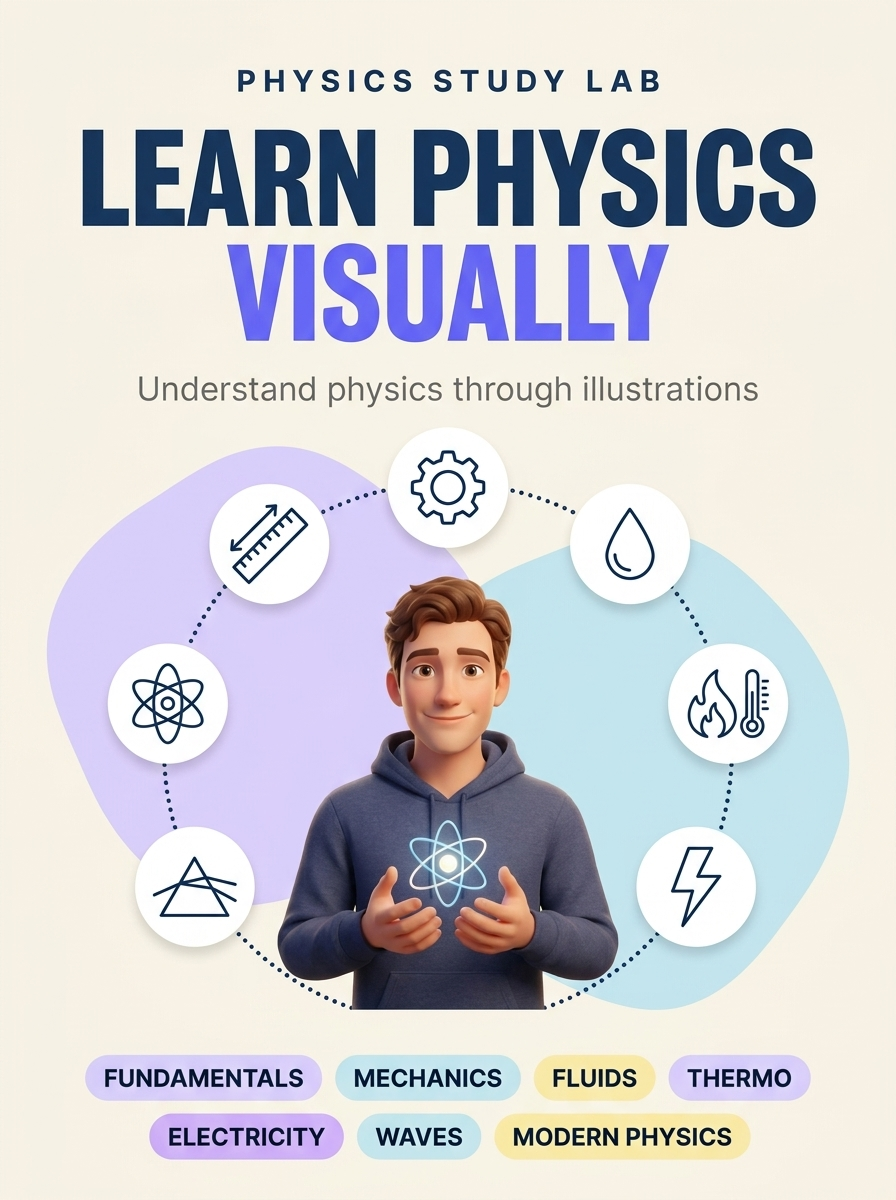
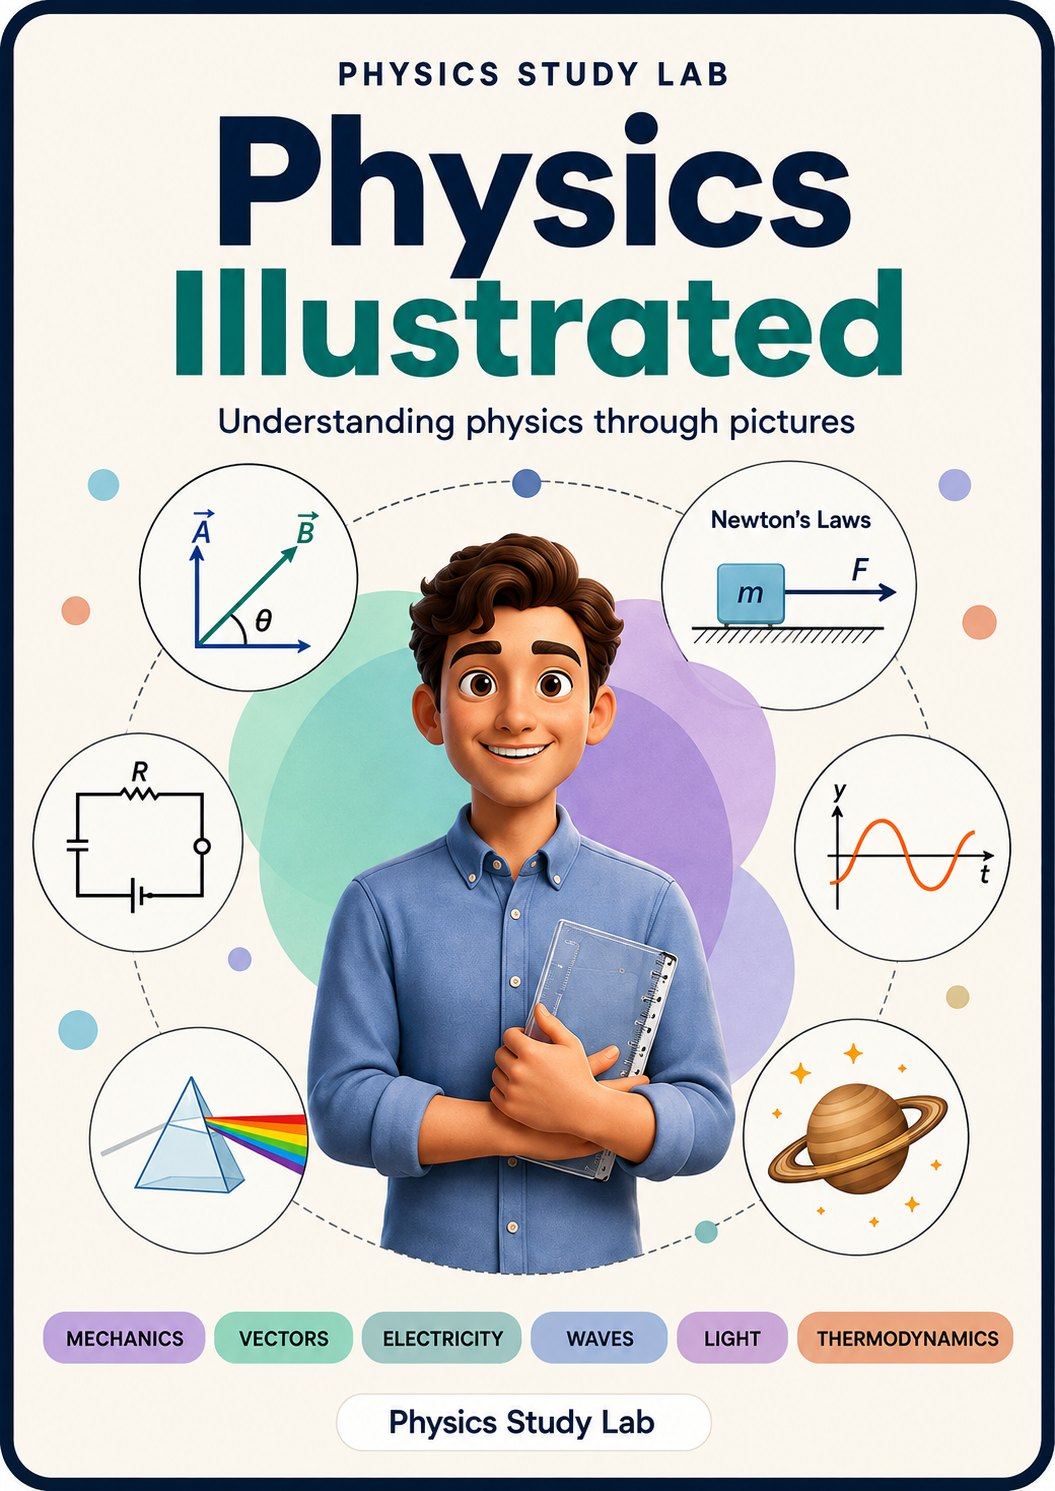
Nuevas portadas, precio £13 y autor Oliver Smith
- Portada del kit (los 3 libros) con fondo recortado en hero y caja de oferta
- Physics Illustrated como portada del libro principal (kit-fan y og:image)
- Bonus 1: The Words of Physics (104 terminos); Bonus 2: Rapid Revision Cards (30 cards)
- Copy y listados alineados a lo que dicen las portadas
- Precio 15 -> 13 GBP en toda la pagina, JSON-LD y FAQ; badge SAVE £44
- Autor: James Whitmore -> Oliver Smith
- Mockups apaisados: hero/db-mockup mas anchos, drop-shadow en vez de caja

diff --git a/index.html b/index.html
@@ -20,7 +20,7 @@
   <meta name="viewport" content="width=device-width, initial-scale=1.0, viewport-fit=cover">
   <meta name="theme-color" content="#173B6C">
   <title>Physics Study Lab: 7 Parts, 38 Illustrated Chapters</title>
-  <meta name="description" content="Physics in 7 illustrated parts: mechanics, electricity, waves, thermodynamics and more. Understand it, don't just memorise it. £15, 30-day guarantee.">
+  <meta name="description" content="Physics in 7 illustrated parts: mechanics, electricity, waves, thermodynamics and more. Understand it, don't just memorise it. £13, 30-day guarantee.">
   <meta name="robots" content="index, follow, max-image-preview:large, max-snippet:-1">
   <meta name="author" content="Physics Study Lab">
   <link rel="canonical" href="https://www.TU-DOMINIO.com/">
@@ -131,7 +131,7 @@
       pointer-events: none;
     }
     .hero-content { position: relative; z-index: 2; max-width: 900px; margin: 0 auto; }
-    .hero-mockup { max-width: 300px; margin: 0 auto 22px; border-radius: 16px; overflow: hidden; box-shadow: 0 20px 50px rgba(0,0,0,0.35); }
+    .hero-mockup { max-width: 440px; margin: 0 auto 22px; filter: drop-shadow(0 20px 42px rgba(0,0,0,0.42)); }
     .hero h1 {
       font-size: clamp(26px, 6.6vw, 32px);
       margin-bottom: 20px; line-height: 1.2;
@@ -172,7 +172,7 @@
     .kit-fan img:not(:first-child) { margin-left: -20px; }
     .kit-fan .kf-p1 { transform: rotate(-14deg); }
     .kit-fan .kf-p2 { transform: rotate(-7deg) translateY(6px); }
-    .kit-fan .kf-cover { width: 104px; aspect-ratio: 896 / 1200; transform: translateY(-10px); z-index: 5; position: relative; box-shadow: 0 14px 30px rgba(15, 27, 51, 0.32); }
+    .kit-fan .kf-cover { width: 104px; aspect-ratio: 1055 / 1491; transform: translateY(-10px); z-index: 5; position: relative; box-shadow: 0 14px 30px rgba(15, 27, 51, 0.32); }
     .kit-fan .kf-p3 { transform: rotate(7deg) translateY(6px); }
     .kit-fan .kf-p4 { transform: rotate(14deg); }
     @media (min-width: 480px) {
@@ -237,7 +237,7 @@
     @media (min-width: 640px) { .decision-box { border-radius: 28px; padding: 44px 36px 36px; margin: 56px auto 0; } }
 
     .db-title { text-align: center; font-size: 24px; font-weight: 800; color: #111827; margin: 18px 0 22px; line-height: 1.25; font-family: inherit; }
-    .db-mockup { display: block; width: 100%; max-width: 260px; margin: 0 auto; filter: drop-shadow(0 12px 32px rgba(23,59,108,0.22)); border-radius: 14px; overflow: hidden; }
+    .db-mockup { display: block; width: 100%; max-width: 380px; margin: 0 auto; filter: drop-shadow(0 12px 32px rgba(23,59,108,0.22)); }
 
     .db-checklist { list-style: none; margin: 0 0 24px; padding: 0; }
     .db-checklist li { display: flex; align-items: center; gap: 12px; padding: 13px 4px; font-size: 15px; font-weight: 500; color: var(--text); border-bottom: 1px solid #f1f5f9; line-height: 1.4; }
@@ -476,7 +476,7 @@
       .container { padding: 0 20px; }
       .hero { padding: 60px 20px 80px; }
       .hero h1 { font-size: 48px; }
-      .hero-mockup { max-width: 380px; margin-bottom: 30px; }
+      .hero-mockup { max-width: 620px; margin-bottom: 30px; }
       .hero .subheadline { font-size: 20px; }
       .section { padding: 80px 20px; }
       .section-snug-top { padding-top: 40px; }
@@ -547,12 +547,12 @@
     "description":"Physics in 7 parts and 38 illustrated chapters: fundamentals, mechanics, fluids, thermodynamics, electricity, waves and optics, and modern physics. Plus 2 bonuses, in English.",
     "image":"https://www.TU-DOMINIO.com/img/cover.jpg",
     "brand":{"@type":"Brand","name":"Physics Study Lab"},
-    "offers":{"@type":"Offer","price":"15","priceCurrency":"GBP","availability":"https://schema.org/InStock",
+    "offers":{"@type":"Offer","price":"13","priceCurrency":"GBP","availability":"https://schema.org/InStock",
               "url":"https://www.TU-DOMINIO.com/#offerta",
               "hasMerchantReturnPolicy":{"@type":"MerchantReturnPolicy","returnPolicyCategory":"https://schema.org/MerchantReturnFiniteReturnWindow","merchantReturnDays":30,"applicableCountry":"GB"}}},
    {"@type":"FAQPage","mainEntity":[
     {"@type":"Question","name":"How will I receive the material?","acceptedAnswer":{"@type":"Answer","text":"As soon as you complete your purchase you'll get an automatic email with the access link. It's high-resolution PDF, ready to download, print or read on any device."}},
-    {"@type":"Question","name":"Is it a one-off payment or a subscription?","acceptedAnswer":{"@type":"Answer","text":"One-off payment of £15. No instalments, no recurring charges. Pay once and the material is yours for good."}},
+    {"@type":"Question","name":"Is it a one-off payment or a subscription?","acceptedAnswer":{"@type":"Answer","text":"One-off payment of £13. No instalments, no recurring charges. Pay once and the material is yours for good."}},
     {"@type":"Question","name":"What language is the material in?","acceptedAnswer":{"@type":"Answer","text":"100% in English, using the same terminology you use in class. It isn't a machine translation."}},
     {"@type":"Question","name":"Does it match my exam board or level?","acceptedAnswer":{"@type":"Answer","text":"Yes. The core physics is the same whichever board you sit — AQA, OCR, Edexcel or Eduqas — so the material covers what comes up at GCSE and A-Level, plus first-year university courses."}},
     {"@type":"Question","name":"Can I print the material?","acceptedAnswer":{"@type":"Answer","text":"Yes. The PDFs are designed in high resolution, ideal for printing, annotating or using as a quick reference before an exam."}}]}]}
@@ -581,7 +581,7 @@
   <section class="hero">
     <div class="hero-content">
       <div class="hero-mockup">
-        <img src="./img/cover.jpg" alt="Physics Study Lab Complete Kit" width="896" height="1200" loading="eager" fetchpriority="high" decoding="async">
+        <img src="./img/kit.webp" alt="Physics Study Lab Complete Kit: Physics Illustrated plus the two bonus books" width="1620" height="971" loading="eager" fetchpriority="high" decoding="async">
       </div>
       <p class="hero-social">
         <span class="stars" aria-hidden="true" style="font-size:19px;letter-spacing:3px;color:var(--cta)">★★★★★</span><br>
@@ -906,7 +906,7 @@
       <div class="kit-fan" role="img" aria-label="The Physics Study Lab cover and four real sample pages, fanned out">
         <img class="kf-p1" src="./img/page-1.jpg" alt="" loading="lazy" decoding="async">
         <img class="kf-p2" src="./img/page-2.jpg" alt="" loading="lazy" decoding="async">
-        <img class="kf-cover" src="./img/cover.jpg" alt="" loading="lazy" decoding="async">
+        <img class="kf-cover" src="./img/cover.webp" alt="" loading="lazy" decoding="async">
         <img class="kf-p3" src="./img/page-3.jpg" alt="" loading="lazy" decoding="async">
         <img class="kf-p4" src="./img/page-4.jpg" alt="" loading="lazy" decoding="async">
       </div>
@@ -937,11 +937,11 @@
 
       <div class="bonus-grid">
         <div class="bonus-item-with-image">
-          <div class="bonus-mockup"><img src="./img/bonus-1.jpg" alt="The 100 Physics Formulas Explained Visually" width="896" height="1200" loading="lazy" decoding="async"></div>
+          <div class="bonus-mockup"><img src="./img/bonus-1.webp" alt="The Words of Physics: 104 terms explained with illustrations" width="1055" height="1491" loading="lazy" decoding="async"></div>
           <div class="bonus-text">
-            <h3>BONUS 1: &ldquo;The 100 Physics Formulas Explained Visually&rdquo;</h3>
+            <h3>BONUS 1: &ldquo;The Words of Physics: 104 Terms Explained with Illustrations&rdquo;</h3>
             <p class="value">Individual value: £14</p>
-            <p>Every formula with its own drawing, its &ldquo;why&rdquo;, and a worked example. Stop memorising loose letters and start understanding where every formula actually comes from.</p>
+            <p>Every term with its own drawing, its &ldquo;why&rdquo;, and a worked example. Stop memorising loose letters and start understanding what every word in physics actually means.</p>
             <div class="bonus-sfoglia">
               <figure><img src="./img/bonus1-sample-1.jpg" alt="Sample page from the formula glossary" width="768" height="1376" loading="lazy" decoding="async"><figcaption>Every formula with its definition and its drawing</figcaption></figure>
               <figure><img src="./img/bonus1-sample-2.jpg" alt="Comparison of commonly confused formulas" width="768" height="1376" loading="lazy" decoding="async"><figcaption>Weight vs. mass: the pair everyone confuses</figcaption></figure>
@@ -951,16 +951,16 @@
         </div>
 
         <div class="bonus-item-with-image">
-          <div class="bonus-mockup"><img src="./img/bonus-2.jpg" alt="Quick Physics Revision: 25 flashcards on the 5 topics that come up most" width="896" height="1200" loading="lazy" decoding="async"></div>
+          <div class="bonus-mockup"><img src="./img/bonus-2.webp" alt="Rapid Revision Cards in Physics: 30 cards on the topics that come up most" width="1055" height="1491" loading="lazy" decoding="async"></div>
           <div class="bonus-text">
-            <h3>BONUS 2: &ldquo;Quick Physics Revision: 25 Flashcards on the 5 Topics That Come Up Most&rdquo;</h3>
+            <h3>BONUS 2: &ldquo;Rapid Revision Cards in Physics: 30 Cards on the Topics That Come Up Most&rdquo;</h3>
             <p class="value">Individual value: £14</p>
             <ul>
               <li>Vectors</li>
-              <li>Newton's Laws</li>
-              <li>Circuits</li>
-              <li>Thermodynamics</li>
+              <li>Mechanics</li>
+              <li>Electricity</li>
               <li>Waves</li>
+              <li>Light</li>
             </ul>
             <p style="margin-top: 16px;">These 5 topics cover the majority of what actually comes up in GCSE and A-Level exams. Cover the answer, test yourself, and know instantly what still needs work.</p>
             <div class="bonus-sfoglia">
@@ -974,25 +974,25 @@
 
       <!-- DECISION BOX -->
       <div class="decision-box" id="offerta">
-        <img src="./img/cover.jpg" alt="Complete Kit: 7 Parts + 2 Bonuses" class="db-mockup" width="896" height="1200" loading="lazy" decoding="async">
+        <img src="./img/kit.webp" alt="Complete Kit: 7 Parts + 2 Bonuses" class="db-mockup" width="1620" height="971" loading="lazy" decoding="async">
 
         <h3 class="db-title">Physics Study Lab Kit</h3>
 
         <ul class="db-checklist">
           <li><span class="db-check"><svg viewBox="0 0 24 24"><polyline points="20 6 9 17 4 12"/></svg></span>38 Illustrated Physics Chapters<span class="db-price-val">£29</span></li>
-          <li><span class="db-check"><svg viewBox="0 0 24 24"><polyline points="20 6 9 17 4 12"/></svg></span>Bonus 1: The 100 Formulas Explained<span class="db-price-val">£14</span></li>
-          <li><span class="db-check"><svg viewBox="0 0 24 24"><polyline points="20 6 9 17 4 12"/></svg></span>Bonus 2: Quick Revision, 25 Flashcards<span class="db-price-val">£14</span></li>
+          <li><span class="db-check"><svg viewBox="0 0 24 24"><polyline points="20 6 9 17 4 12"/></svg></span>Bonus 1: The Words of Physics, 104 Terms<span class="db-price-val">£14</span></li>
+          <li><span class="db-check"><svg viewBox="0 0 24 24"><polyline points="20 6 9 17 4 12"/></svg></span>Bonus 2: Rapid Revision, 30 Cards<span class="db-price-val">£14</span></li>
           <li><span class="db-check"><svg viewBox="0 0 24 24"><polyline points="20 6 9 17 4 12"/></svg></span>High-resolution PDF for printing<span class="db-price-val">Included</span></li>
         </ul>
 
         <div class="db-anchoring">
           <p class="db-old-price">Total value: £57</p>
           <p class="db-new-price-label">Today only:</p>
-          <p class="db-new-price">£15</p>
-          <span class="db-discount-badge">SAVE £42</span>
+          <p class="db-new-price">£13</p>
+          <span class="db-discount-badge">SAVE £44</span>
         </div>
 
-        <a href="#offerta" data-checkout class="db-cta">YES, I WANT THE COMPLETE KIT FOR £15</a>
+        <a href="#offerta" data-checkout class="db-cta">YES, I WANT THE COMPLETE KIT FOR £13</a>
 
         <div class="db-trust">
           <span class="db-trust-item"><span class="db-trust-icon"><svg viewBox="0 0 24 24"><path d="M12 1L3 5v6c0 5.55 3.84 10.74 9 12 5.16-1.26 9-6.45 9-12V5l-9-4z"/></svg></span>Secure checkout</span>
@@ -1043,10 +1043,10 @@
 
       <div class="author-content">
         <div class="author-image">
-          <img src="./img/avatar/avatar-pose-wave.jpg" alt="James Whitmore, founder of Physics Study Lab" width="1024" height="1024" loading="lazy" decoding="async">
+          <img src="./img/avatar/avatar-pose-wave.jpg" alt="Oliver Smith, founder of Physics Study Lab" width="1024" height="1024" loading="lazy" decoding="async">
         </div>
         <div class="author-bio">
-          <h3>James Whitmore</h3>
+          <h3>Oliver Smith</h3>
           <h4>Physicist · Founder of Physics Study Lab</h4>
           <p>Physicist and founder of Physics Study Lab, an educational platform created to help students make sense of complex physics through a simpler, more visual approach.</p>
           <p>With a method built around <strong>visual learning and effective understanding</strong>, I transform complicated concepts, equations and theories into clear diagrams, illustrations and practical explanations — so you can finally understand what once seemed impossible.</p>
@@ -1064,8 +1064,8 @@
 
       <ul class="recap-list">
         <li>38 Illustrated Physics Chapters, in 7 parts: from basic quantities to modern physics, all visual and organised</li>
-        <li>Bonus 1: &ldquo;The 100 Physics Formulas Explained Visually&rdquo; (worth £14)</li>
-        <li>Bonus 2: &ldquo;Quick Physics Revision: 25 Flashcards on the 5 Topics That Come Up Most&rdquo; (worth £14)</li>
+        <li>Bonus 1: &ldquo;The Words of Physics: 104 Terms Explained with Illustrations&rdquo; (worth £14)</li>
+        <li>Bonus 2: &ldquo;Rapid Revision Cards in Physics: 30 Cards on the Topics That Come Up Most&rdquo; (worth £14)</li>
         <li>Instant access: everything arrives by automatic email in under 2 minutes</li>
         <li>30-day no-questions guarantee: try it risk-free</li>
         <li>High-resolution PDF: print it, annotate it, take it anywhere</li>
@@ -1073,7 +1073,7 @@
 
       <div class="price-recap">
         <p class="old-price">£57</p>
-        <p class="new-price">£15</p>
+        <p class="new-price">£13</p>
       </div>
 
       <div style="text-align: center;">
@@ -1109,7 +1109,7 @@
         </div>
         <div class="faq-item">
           <button class="faq-question" aria-expanded="false" aria-controls="faq2">Is it a one-off payment or a subscription?</button>
-          <div class="faq-answer" id="faq2" hidden><p>One-off payment of £15. No instalments, no recurring charges, no surprises. Pay once and the material is yours for good.</p></div>
+          <div class="faq-answer" id="faq2" hidden><p>One-off payment of £13. No instalments, no recurring charges, no surprises. Pay once and the material is yours for good.</p></div>
         </div>
         <div class="faq-item">
           <button class="faq-question" aria-expanded="false" aria-controls="faq3">What language is the material in?</button>
@@ -1142,13 +1142,13 @@
 
       <div class="cta-summary">
         <ul>
-          <li>One-off cost: £15</li>
+          <li>One-off cost: £13</li>
           <li>Guarantee: 30 days, no questions asked</li>
           <li>Access: instant, by email</li>
         </ul>
       </div>
 
-      <a href="#offerta" class="btn-cta">I WANT THE COMPLETE KIT FOR £15</a>
+      <a href="#offerta" class="btn-cta">I WANT THE COMPLETE KIT FOR £13</a>
 
       <p class="cta-small-print" style="margin-top: 24px;">
         <svg aria-hidden="true" focusable="false" class="lc" viewBox="0 0 24 24" fill="none" stroke="currentColor" stroke-width="2" stroke-linecap="round" stroke-linejoin="round"><rect width="14" height="20" x="5" y="2" rx="2" ry="2"/><path d="M12 18h.01"/></svg> You'll receive the material by email in under 2 minutes
